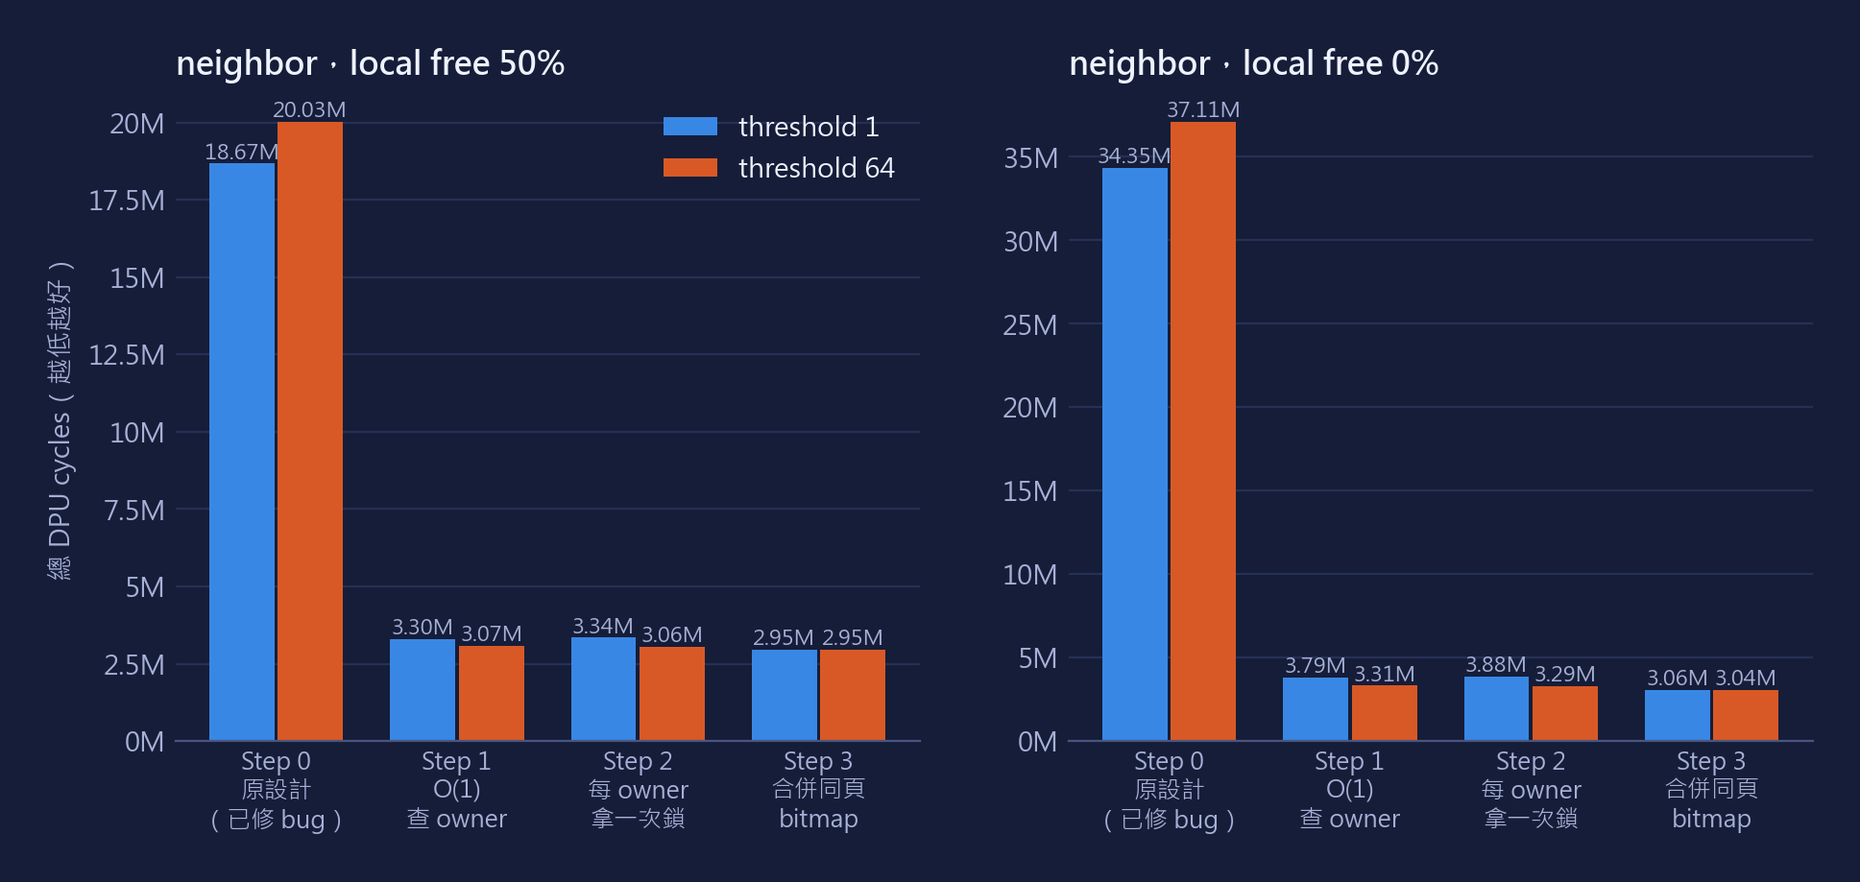
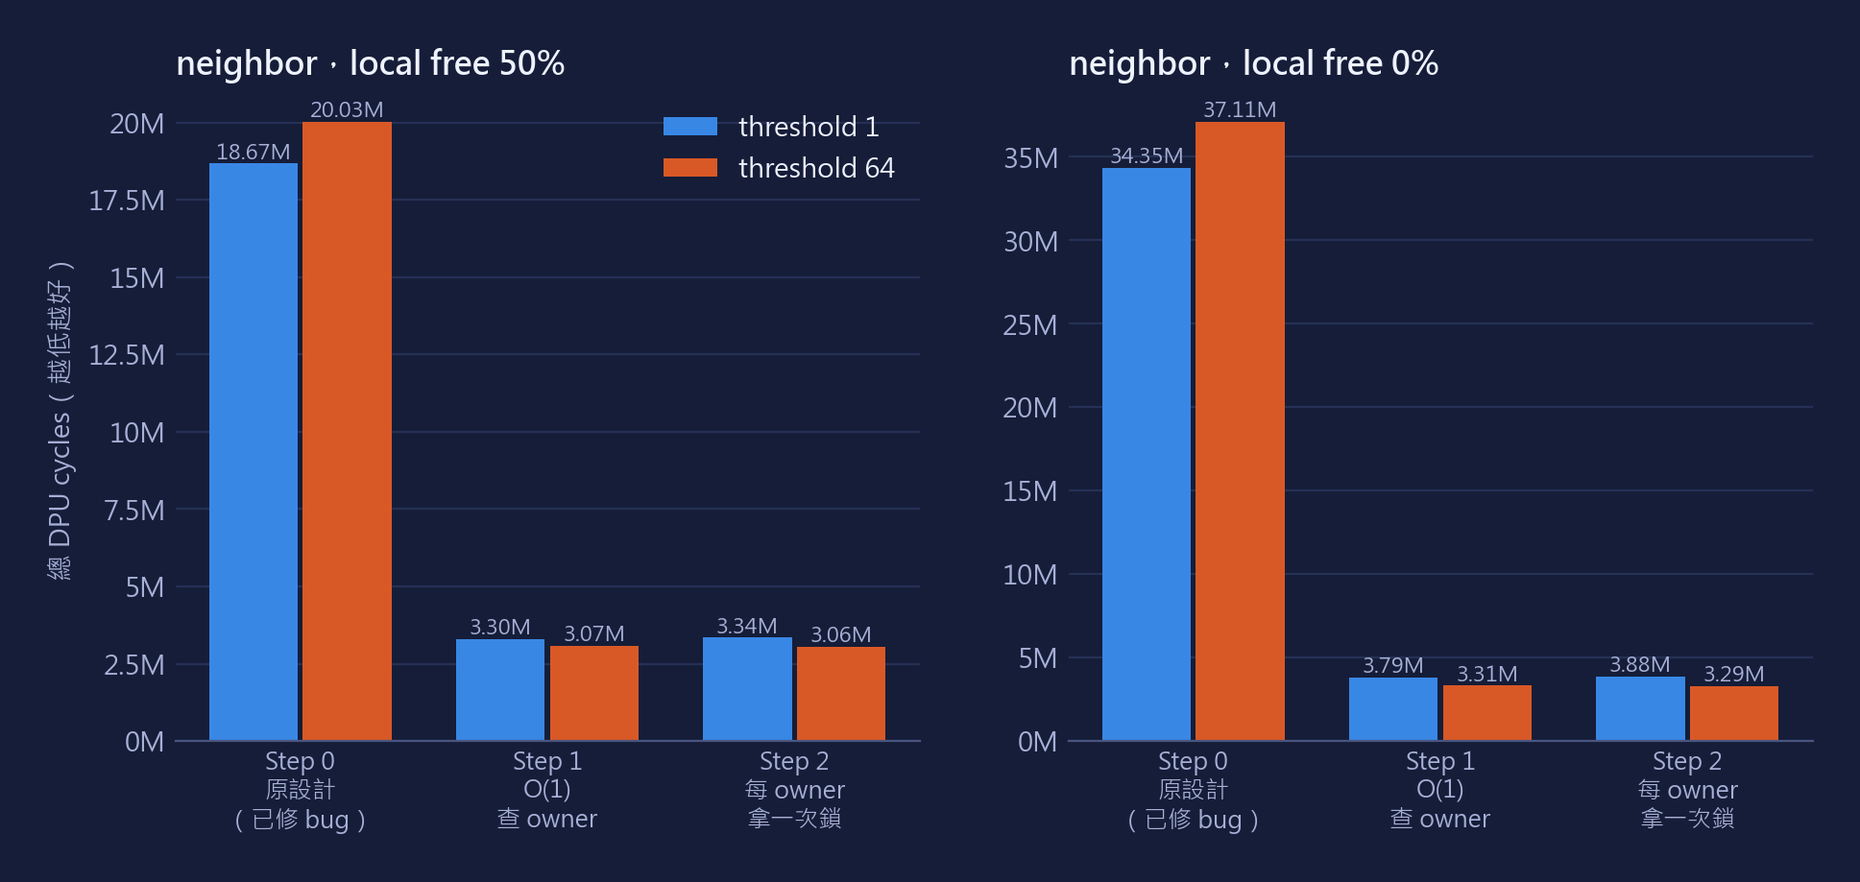
Report: drop Step 3 from report and figures
Step 3 code was reverted in 4303801, so the report now covers Steps 0-2
only. Conclusions are rewritten from the Step 1/2 data: threshold 32-64
is fastest in all four configurations under Step 1, while Step 2 keeps
that only for neighbor and is slower than threshold 1 on scatter.

Figures 4 and 5 (Step 3 relative change and counters) are replaced by
a Step 1 / Step 2 relative-to-threshold-1 figure. The Step 3 raw data
under hw/results/step3_page_merge is left in place.

Changed region(s): [[0.0929, 0.1219, 0.4646, 0.9445], [0.5885, 0.1219, 0.9602, 0.9445]]

diff --git a/PIM-malloc/experiment_report.html b/PIM-malloc/experiment_report.html
@@ -198,7 +198,7 @@
         <div class="eyebrow">PIM-malloc Experiment Report</div>
         <h1>Alien Cache<br/>改良與 Flush Threshold 實驗</h1>
         <p class="lede">
-          本報告記錄 alien cache 的四個改良步驟：修正 bug、O(1) 查 owner、每個 owner 只拿一次鎖、合併同一頁的 bitmap 讀寫。
+          本報告記錄 alien cache 的三個改良步驟：修正 bug、O(1) 查 owner、每個 owner 只拿一次鎖。
           每一步都用重寫後的 benchmark 掃描 flush threshold 1 到 64，以 DPU cycles 作為指標。
           程式碼在 <code>alien-cache-opt</code> 分支，每一步各一個 commit。
         </p>
@@ -206,8 +206,8 @@
       <div class="hero-grid">
         <div class="metric">
           <div class="label">總加速</div>
-          <div class="value">6.3× – 11.2×</div>
-          <div class="desc">Step 0 → Step 3，threshold 1，neighbor 模式</div>
+          <div class="value">6.1× – 10.4×</div>
+          <div class="desc">Step 0 threshold 1 → Step 2 threshold 64，neighbor 模式</div>
         </div>
         <div class="metric">
           <div class="label">主要來源</div>
@@ -216,8 +216,8 @@
         </div>
         <div class="metric">
           <div class="label">批次 flush 的效益</div>
-          <div class="value">−0.8% – +4%</div>
-          <div class="desc">Step 3 最佳批次 threshold（≥ 2）相對 threshold 1</div>
+          <div class="value">−15% – +7%</div>
+          <div class="desc">Step 2 threshold 64 相對 threshold 1：neighbor 較快，scatter 較慢</div>
         </div>
         <div class="metric">
           <div class="label">正確性驗證</div>
@@ -238,16 +238,16 @@
           <ul>
             <li>效能提升幾乎都來自<strong>修正 bug 與第 1 步</strong>：free 不再掃描所有 thread cache 的串列，總 cycles 從 18.7M / 34.3M 降到約 3.3M / 3.8M。</li>
             <li>在原本的設計下，<strong>threshold 越大越慢</strong>（64 比 1 慢 7–8%），因為批次 flush 沒有分攤任何成本。</li>
-            <li>第 3 步之後批次處理才真正省下 MRAM 存取（bitmap 讀改寫最多減少 64 倍），但<strong>總時間只在 neighbor 模式快 0.2–0.8%，scatter 模式反而慢 2–4%</strong>。</li>
-            <li>因此在這個環境下，<strong>threshold 32 不是最佳值</strong>。直接釋放（threshold 1）在每組設定都是最快或接近最快。</li>
-            <li>第 3 步的程式碼<strong>已撤銷</strong>（<code class="hash">4303801</code>），目前分支上的程式等同第 2 步；第 3 步的量測資料與本報告的分析保留作為紀錄。</li>
+            <li>第 1 步之後趨勢反轉：<strong>threshold 32–64 最快</strong>，比 threshold 1 快 7%（local 50%）到 13%（local 0%），neighbor 與 scatter 都一樣；超過 8 之後幾乎持平。</li>
+            <li>第 2 步（目前的程式）在 neighbor 模式維持這個趨勢，threshold 64 比 1 快 8.6–15%；但在 <strong>scatter 模式 threshold ≥ 2 全部比 threshold 1 慢</strong>（3–27%），threshold 2 時甚至比第 1 步慢 38%。</li>
+            <li>因此 threshold 32–64 是否最佳取決於實作與工作負載：第 1 步的實作在四組設定下都是 32–64 最佳；第 2 步只有 neighbor 模式成立。</li>
           </ul>
         </div>
         <div class="card caution">
           <h3>原因與限制</h3>
           <ul>
-            <li>DPU 上 16 個 tasklet 輪流執行，MRAM DMA 的延遲大多被其他 tasklet 蓋過；真正的瓶頸是 pipeline 的指令吞吐量。批次處理省下的 DMA，大致被它多出的管理指令抵掉。</li>
-            <li>UPMEM 的硬體 mutex 沒人搶時只要一條指令，所以「減少拿鎖次數」本身幾乎沒有效益。</li>
+            <li>DPU 上 16 個 tasklet 共用一條 pipeline，額外的指令會直接拉長總時間。第 2 步為了分組而加的 counting sort 指令，在 scatter 模式抵掉了少拿鎖的好處。</li>
+            <li>UPMEM 的硬體 mutex 沒人搶時只要一條指令，所以「減少拿鎖次數」本身效益有限：neighbor、local 0%、threshold 64 時，第 2 步把拿鎖次數從 16384 降到 8320，總時間只少 0.6%。</li>
             <li>所有數據來自 UPMEM SDK 的模擬器（<code>backend=simulator</code>），尚未在實體 DPU 上驗證。</li>
           </ul>
         </div>
@@ -322,17 +322,9 @@
             <strong>每次 flush 對每個 owner 只拿一次鎖</strong>（<code class="hash">1809a90</code>）<br/>
             flush 時先讀出每個指標的 owner，用 counting sort 依 owner 分組，每組只拿一次鎖；整批只有一個 owner 時跳過排序。沒有採用「owner 自己來收」的 MRAM 收件匣，因為每個指標要多一次 DMA 寫入與讀取。
           </div></div>
-          <div class="step"><b>3</b><div>
-            <strong>依 owner 分串列，合併同一頁的 bitmap 讀寫</strong>（<code class="hash">6fc5e1f</code>）<br/>
-            free 已經讀過 header，所以 enqueue 時就把指標串進該 owner 的串列，flush 不再重讀 header 或排序。同一頁的連續指標先在 WRAM 裡合成一個遮罩，只做一次 bitmap 讀改寫。每個 tasklet 從「自己的下一個 owner」開始 flush，避免所有 tasklet 同時搶 owner 0 的鎖。threshold 1 直接釋放，不經過串列。
-          </div></div>
           <div class="step"><b class="skip">4</b><div>
             <strong>批次 buddy free：跳過</strong><br/>
             第 1 步之後，大區塊在 free 時就直接交給 buddy allocator，不會進 alien cache；所有量測中 alien 路徑的 <code>buddy_frees</code> 都是 0，沒有東西可以批次處理。
-          </div></div>
-          <div class="step"><b class="skip">↩</b><div>
-            <strong>撤銷第 3 步的程式碼</strong>（<code class="hash">4303801</code>）<br/>
-            用 <code>git revert</code> 撤銷 <code class="hash">6fc5e1f</code> 的程式變動，allocator 與 benchmark 回到第 2 步；<code>hw/results/step3_page_merge/</code> 的量測資料保留。撤銷後重新編譯，stress 驗證全部通過，neighbor、local 0% 的 cycles 與第 2 步紀錄完全相同。原因：第 3 步省下最多 64 倍的 bitmap 讀改寫，總時間卻只在 neighbor 快 0.2–0.8%，scatter 反而慢 2–4%，增加的程式複雜度不划算。需要時可用 <code>git revert 4303801</code> 恢復。
           </div></div>
         </div>
       </div>
@@ -360,7 +352,7 @@
             <h3>量測與驗證</h3>
             <ul>
               <li><strong>計時</strong>：tasklet 0 在 barrier 之間讀 <code>perfcounter</code>，分別累計 alloc、free、drain 三個階段的 DPU cycles，存進 <code>__host struct BenchmarkResult</code>，Host 用 <code>dpu_copy_from</code> 讀回。</li>
-              <li><strong>計數器</strong>：每個 tasklet 各自累計本地 free、alien enqueue、flush 次數、拿鎖次數、header 讀取次數、bitmap 讀改寫次數，結束時加總；另外統計使用中的 page 數。</li>
+              <li><strong>計數器</strong>：每個 tasklet 各自累計本地 free、alien enqueue、flush 次數、拿鎖次數、header 讀取次數，結束時加總；另外統計使用中的 page 數。</li>
               <li><strong>驗證</strong>：計時前另跑一次驗證。每個配置到的物件寫入唯一標籤，配置完成後逐一檢查，標籤被覆寫代表有配置重疊；全部 flush 完後，所有 bitmap 必須回到全空，否則代表有 chunk 漏掉沒回收。</li>
               <li>壓力測試另外涵蓋 size 16 batch 128、size 2048、size 100 batch 100、local 0% 與 100%。</li>
             </ul>
@@ -406,7 +398,7 @@ python hw/script/plot_results.py</div>
       <div class="content">
         <figure>
           <img src="report_figures/fig1_step_overview.png" alt="各步驟在 threshold 1 與 64 的總 DPU cycles 長條圖，neighbor 模式，local free 50% 與 0%" />
-          <figcaption><b>圖 1　各步驟的總 cycles。</b>Step 0 → Step 1 是最大的改變（local 50%：18.67M → 3.30M；local 0%：34.35M → 3.79M）。Step 1 → Step 3 再降低 4%–19%（threshold 1 降最多，因為 Step 3 的直接釋放少讀一次 header）。Step 0 沒有 scatter 模式的數據，因為 scatter 是之後才加入的。</figcaption>
+          <figcaption><b>圖 1　各步驟的總 cycles。</b>Step 0 → Step 1 是最大的改變（local 50%：18.67M → 3.30M；local 0%：34.35M → 3.79M）。Step 1 → Step 2 在 neighbor 模式差異很小：threshold 64 快 0.3–0.6%，threshold 1 反而慢 1.3–2.3%（多了分組的判斷）。Step 0 沒有 scatter 模式的數據，因為 scatter 是之後才加入的。</figcaption>
         </figure>
 
         <figure>
@@ -415,8 +407,8 @@ python hw/script/plot_results.py</div>
         </figure>
 
         <figure>
-          <img src="report_figures/fig3_threshold_curves.png" alt="Step 1 到 Step 3 在四種設定下的 threshold 掃描折線圖" />
-          <figcaption><b>圖 3　Step 1–3 的 threshold 掃描。</b>Step 1 中 threshold 越大越快，但超過 8 之後幾乎持平。Step 2 在 scatter 模式明顯變慢（threshold 2 時 +38%），因為排序的指令成本超過省下的拿鎖成本；另一個原因是所有 tasklet 都從 owner 0 開始拿鎖，Step 3 改成從自己的下一個 owner 開始後，scatter local 0% 在 threshold 64 從 3.78M（未提交的中間版本）降到 3.18M。Step 3 的 threshold 1 走直接釋放路徑，是四組設定中最快或接近最快的點。</figcaption>
+          <img src="report_figures/fig3_threshold_curves.png" alt="Step 1 與 Step 2 在四種設定下的 threshold 掃描折線圖" />
+          <figcaption><b>圖 3　Step 1–2 的 threshold 掃描。</b>Step 1 中 threshold 越大越快，但超過 8 之後幾乎持平。Step 2 在 neighbor 模式和 Step 1 幾乎重疊，在 scatter 模式則明顯變慢（local 0%、threshold 2 時 +38%）。推測原因有二：scatter 時一次 flush 分散到很多 owner，counting sort 的指令成本超過省下的拿鎖成本；而且每個 tasklet 都從 owner 0 開始依序拿鎖，容易在同一把鎖上排隊。</figcaption>
         </figure>
 
         <div class="table-scroll">
@@ -427,31 +419,22 @@ python hw/script/plot_results.py</div>
             <tbody>
               <tr><td>neighbor 50%　Step 0</td><td>18.67M</td><td>18.95M</td><td>19.13M</td><td>19.51M</td><td>19.69M</td><td>20.01M</td><td>20.03M</td></tr>
               <tr><td>neighbor 50%　Step 1</td><td>3.30M</td><td>3.18M</td><td>3.12M</td><td>3.09M</td><td>3.07M</td><td>3.06M</td><td>3.07M</td></tr>
-              <tr><td>neighbor 50%　Step 2</td><td>3.34M</td><td>3.19M</td><td>3.12M</td><td>3.08M</td><td>3.06M</td><td>3.05M</td><td>3.06M</td></tr>
-              <tr><td>neighbor 50%　Step 3</td><td>2.95M</td><td>3.18M</td><td>3.05M</td><td>2.99M</td><td>2.96M</td><td>2.95M</td><td class="best">2.95M</td></tr>
+              <tr><td>neighbor 50%　Step 2</td><td>3.34M</td><td>3.19M</td><td>3.12M</td><td>3.08M</td><td>3.06M</td><td class="best">3.05M</td><td>3.06M</td></tr>
               <tr><td>neighbor 0%　Step 0</td><td>34.35M</td><td>34.83M</td><td>35.26M</td><td>35.69M</td><td>36.19M</td><td>36.77M</td><td>37.11M</td></tr>
               <tr><td>neighbor 0%　Step 1</td><td>3.79M</td><td>3.55M</td><td>3.43M</td><td>3.37M</td><td>3.34M</td><td>3.32M</td><td>3.31M</td></tr>
-              <tr><td>neighbor 0%　Step 2</td><td>3.88M</td><td>3.58M</td><td>3.43M</td><td>3.36M</td><td>3.32M</td><td>3.30M</td><td>3.29M</td></tr>
-              <tr><td>neighbor 0%　Step 3</td><td>3.06M</td><td>3.51M</td><td>3.27M</td><td>3.14M</td><td>3.08M</td><td>3.05M</td><td class="best">3.04M</td></tr>
+              <tr><td>neighbor 0%　Step 2</td><td>3.88M</td><td>3.58M</td><td>3.43M</td><td>3.36M</td><td>3.32M</td><td>3.30M</td><td class="best">3.29M</td></tr>
               <tr><td>scatter 50%　Step 1</td><td>3.30M</td><td>3.18M</td><td>3.12M</td><td>3.09M</td><td>3.07M</td><td>3.06M</td><td>3.06M</td></tr>
-              <tr><td>scatter 50%　Step 2</td><td>3.34M</td><td class="worse">3.86M</td><td>3.58M</td><td>3.49M</td><td>3.51M</td><td>3.56M</td><td>3.52M</td></tr>
-              <tr><td>scatter 50%　Step 3</td><td class="best">2.95M</td><td>3.34M</td><td>3.30M</td><td>3.28M</td><td>3.25M</td><td>3.09M</td><td>3.02M</td></tr>
+              <tr><td>scatter 50%　Step 2</td><td class="best">3.34M</td><td class="worse">3.86M</td><td>3.58M</td><td>3.49M</td><td>3.51M</td><td>3.56M</td><td>3.52M</td></tr>
               <tr><td>scatter 0%　Step 1</td><td>3.78M</td><td>3.54M</td><td>3.42M</td><td>3.36M</td><td>3.33M</td><td>3.32M</td><td>3.31M</td></tr>
-              <tr><td>scatter 0%　Step 2</td><td>3.87M</td><td class="worse">4.90M</td><td>4.31M</td><td>4.09M</td><td>3.98M</td><td>3.98M</td><td>4.15M</td></tr>
-              <tr><td>scatter 0%　Step 3</td><td class="best">3.06M</td><td>3.84M</td><td>3.76M</td><td>3.72M</td><td>3.66M</td><td>3.34M</td><td>3.18M</td></tr>
+              <tr><td>scatter 0%　Step 2</td><td class="best">3.87M</td><td class="worse">4.90M</td><td>4.31M</td><td>4.09M</td><td>3.98M</td><td>3.98M</td><td>4.15M</td></tr>
             </tbody>
           </table>
         </div>
-        <p class="note">綠色為 Step 3 在該設定下的最佳 threshold；紅色為 Step 2 相對 Step 1 退步最多的點。「neighbor 50%」表示 remote-pattern 為 neighbor、local free 比例 50%。</p>
+        <p class="note">綠色為 Step 2（目前的程式）在該設定下的最佳 threshold；紅色為 Step 2 相對 Step 1 退步最多的點。「neighbor 50%」表示 remote-pattern 為 neighbor、local free 比例 50%。</p>
 
         <figure>
-          <img src="report_figures/fig4_step3_relative.png" alt="Step 3 各 threshold 相對 threshold 1 的 cycles 變化百分比折線圖" />
-          <figcaption><b>圖 4　Step 3 批次 flush 相對直接釋放的差異。</b>低於 0 才代表批次比較快。只有 neighbor 模式在 threshold 32–64 低於 0，最多快 0.8%。scatter 模式每個 owner 在一次 flush 裡分到的指標很少（threshold 64 時約 4 個），threshold 16 以下幾乎合併不到，所以一直比直接釋放慢。threshold 2 是最差點：每次 flush 都要付串列管理的固定成本，卻幾乎沒有合併效果。</figcaption>
-        </figure>
-
-        <figure>
-          <img src="report_figures/fig5_step3_counters.png" alt="Step 3 的 bitmap 讀改寫次數與 owner 鎖取得次數隨 threshold 變化的折線圖" />
-          <figcaption><b>圖 5　Step 3 的事件計數（local free 0%）。</b>neighbor 模式的 bitmap 讀改寫從 8192 次降到 128 次（64 倍），拿鎖次數也從 16384 次降到 8320 次（剩下的主要是 allocate 時拿自己的鎖）。即使 MRAM 存取減少這麼多，總 cycles 也只少了 0.8%，這表示在 16 個 tasklet 下，MRAM 存取並不是主要瓶頸。</figcaption>
+          <img src="report_figures/fig4_threshold_relative.png" alt="Step 1 與 Step 2 各 threshold 相對 threshold 1 的 cycles 變化百分比折線圖" />
+          <figcaption><b>圖 4　各 threshold 相對 threshold 1 的差異。</b>低於 0 代表批次 flush 比較快。Step 1 中四組設定都在 threshold 32–64 最快（−7% 到 −13%）；neighbor 與 scatter 的數字幾乎相同，所以左圖的線兩兩重疊。Step 2 的 neighbor 模式更明顯（−8.6% 到 −15%），scatter 模式則全部高於 0，threshold 2 最差（+16% 與 +27%）。</figcaption>
         </figure>
       </div>
     </section>
@@ -466,8 +449,8 @@ python hw/script/plot_results.py</div>
           <ul>
             <li><strong>Step 1 的效益最大</strong>：原本每次 free 都要沿著串列找 page，跨執行緒 free 甚至要掃描全部 128 個 cache，每一步都是 MRAM 讀取加上一串指令。</li>
             <li><strong>Step 1 有一處小退步</strong>：size 16 且 100% 本地 free 時慢約 6%。這時舊的串列掃描第一個 cache 就命中，新做法每次 free 多一次 8-byte header DMA。</li>
-            <li><strong>Step 3 的 threshold 1 比 Step 1 快</strong>，主要是因為 Step 1 的 alien 指標會讀兩次 header（free 時一次、flush 時一次），Step 3 重用了第一次讀到的 owner。</li>
-            <li><strong>批次處理的上限很低</strong>：最理想的 neighbor 模式省下 98% 的 bitmap 讀改寫，總時間也只少 0.8%。</li>
+            <li><strong>Step 1 之後批次 flush 開始有效</strong>：header 讀取次數與拿鎖次數都不隨 threshold 改變（local 0% 都是 16384 次），所以省下的應是每次 flush 的固定成本（函式呼叫、迴圈初始化等）。threshold 8 以後固定成本已經攤得很薄，曲線趨於平坦。</li>
+            <li><strong>Step 2 對 neighbor 有小幅幫助、對 scatter 有害</strong>：neighbor 時整批只有一個 owner，走跳過排序的快速路徑，拿鎖次數減半；scatter 時要做 counting sort，每個 owner 卻只分到幾個指標，排序成本換不回來。</li>
           </ul>
         </div>
         <div class="card">
@@ -476,7 +459,7 @@ python hw/script/plot_results.py</div>
             <li>在實體 UPMEM 硬體上重跑，確認模擬器的 cycle 模型（尤其是 DMA 與 mutex 的成本）與實機一致。</li>
             <li>減少 free 路徑的指令數：DPU 沒有硬體除法器，chunk index 與 <code>assert</code> 裡的 <code>/</code>、<code>%</code> 都是軟體除法；size class 為 2 的冪時可改用位移，計時用的版本可以加 <code>-DNDEBUG</code>。</li>
             <li>增加更接近實際應用的工作負載，例如物件跨輪存活、多種大小混合，以觀察延後回收對 page 用量的影響（size 2048 時 threshold 64 用到 432 個 page，threshold 1 只要 240 個）。</li>
-            <li>如果保留 alien cache，建議預設 threshold 1（直接釋放）；只有在確定是固定鄰居的 producer–consumer 模式時，才考慮 32–64。</li>
+            <li>如果要讓 threshold 32–64 在各種工作負載下都最佳，可以考慮回到 Step 1 的 flush 方式，或讓 Step 2 只在整批同一個 owner 時才分組，避免 scatter 時的排序成本；每個 tasklet 從不同的 owner 開始拿鎖，也可能減少排隊。</li>
           </ul>
         </div>
       </div>

diff --git a/PIM-malloc/hw/script/plot_results.py b/PIM-malloc/hw/script/plot_results.py
@@ -23,7 +23,6 @@ STEPS = [
     ("step0_baseline", "Step 0\n原設計\n（已修 bug）"),
     ("step1_owner_lookup", "Step 1\nO(1)\n查 owner"),
     ("step2_owner_batching", "Step 2\n每 owner\n拿一次鎖"),
-    ("step3_page_merge", "Step 3\n合併同頁\nbitmap"),
 ]
 THRESHOLDS = [1, 2, 4, 8, 16, 32, 64]
 
@@ -173,66 +172,45 @@ def plot_threshold_curves():
         ax.set_ylabel("總 DPU cycles")
 
     handles, labels = axes[0, 0].get_legend_handles_labels()
-    fig.legend(handles, labels, loc="upper center", ncol=3,
+    fig.legend(handles, labels, loc="upper center", ncol=2,
                bbox_to_anchor=(0.5, 1.03))
     fig.tight_layout()
     save(fig, "fig3_threshold_curves.png")
 
 
-def plot_step3_relative():
-    fig, ax = plt.subplots(figsize=(11, 4.2))
+def plot_relative():
+    fig, axes = plt.subplots(1, 2, figsize=(11, 4.2), sharey=True)
     configs = [("neighbor", 50), ("neighbor", 0), ("scatter", 50),
                ("scatter", 0)]
 
-    ax.axhline(0, color=BASELINE, linewidth=1)
-    for (pattern, local), color, marker in zip(configs, SERIES, MARKERS):
-        rows = read_summary("step3_page_merge", local, pattern)
-        base = cycles(rows, 1)
-        values = [(cycles(rows, t) / base - 1) * 100 for t in THRESHOLDS]
-        ax.plot(THRESHOLDS, values, color=color, marker=marker,
-                label=f"{pattern}，local {local}%")
-
-    ax.set_xscale("log", base=2)
-    ax.set_xticks(THRESHOLDS)
-    ax.set_xticklabels([str(t) for t in THRESHOLDS])
-    ax.yaxis.set_major_formatter(FuncFormatter(lambda v, _: f"{v:+.0f}%"))
-    ax.set_xlabel("alien cache flush threshold")
-    ax.set_ylabel("相對 threshold 1 的 cycles 變化")
-    ax.set_title("Step 3：批次 flush 相對直接釋放（threshold 1）的差異，"
-                 "低於 0 代表批次較快", loc="left")
-    ax.legend(loc="upper right", ncol=2)
-    style_axes(ax)
-    save(fig, "fig4_step3_relative.png")
-
-
-def plot_step3_counters():
-    fig, axes = plt.subplots(1, 2, figsize=(11, 3.8), sharex=True)
-    counters = [("bitmap_updates", "bitmap 讀改寫次數"),
-                ("owner_lock_acquires", "owner 鎖取得次數")]
-
-    for ax, (column, title) in zip(axes, counters):
-        for pattern, color, marker in zip(("neighbor", "scatter"), SERIES,
-                                          MARKERS):
-            rows = read_summary("step3_page_merge", 0, pattern)
-            values = [int(rows[t][column]) for t in THRESHOLDS]
+    for ax, (step, label) in zip(axes, STEPS[1:]):
+        ax.axhline(0, color=BASELINE, linewidth=1)
+        for (pattern, local), color, marker in zip(configs, SERIES, MARKERS):
+            rows = read_summary(step, local, pattern)
+            base = cycles(rows, 1)
+            values = [(cycles(rows, t) / base - 1) * 100 for t in THRESHOLDS]
             ax.plot(THRESHOLDS, values, color=color, marker=marker,
-                    label=pattern)
+                    label=f"{pattern}，local {local}%")
 
         ax.set_xscale("log", base=2)
         ax.set_xticks(THRESHOLDS)
         ax.set_xticklabels([str(t) for t in THRESHOLDS])
-        ax.set_ylim(bottom=0)
+        ax.yaxis.set_major_formatter(
+            FuncFormatter(lambda v, _: f"{v:+.0f}%"))
         ax.set_xlabel("alien cache flush threshold")
-        ax.set_title(f"Step 3，local free 0%：{title}", loc="left")
+        ax.set_title(label.replace("\n", " "), loc="left")
         style_axes(ax)
 
-    axes[0].legend(loc="upper right")
-    save(fig, "fig5_step3_counters.png")
+    axes[0].set_ylabel("相對 threshold 1 的 cycles 變化（低於 0 代表較快）")
+    handles, labels = axes[0].get_legend_handles_labels()
+    fig.legend(handles, labels, loc="upper center", ncol=4,
+               bbox_to_anchor=(0.5, 1.06))
+    fig.tight_layout()
+    save(fig, "fig4_threshold_relative.png")
 
 
 if __name__ == "__main__":
     plot_step_overview()
     plot_baseline()
     plot_threshold_curves()
-    plot_step3_relative()
-    plot_step3_counters()
+    plot_relative()
